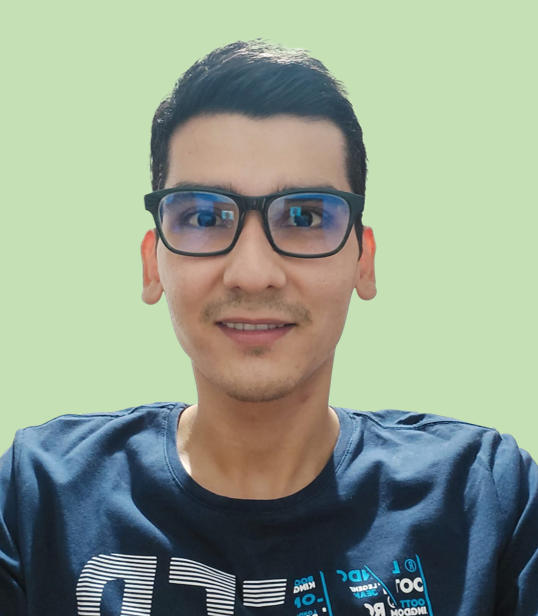
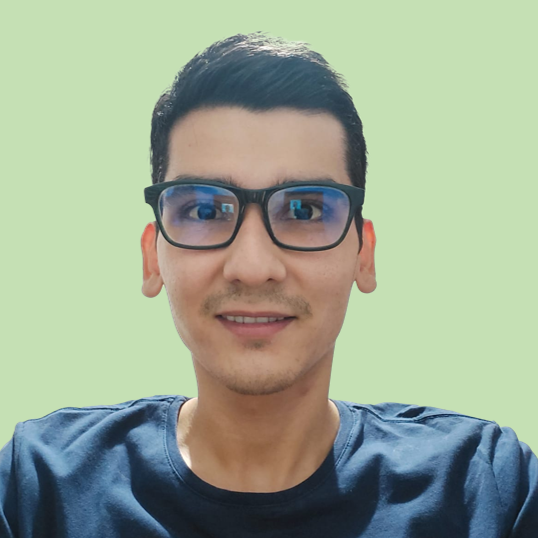
Ajustes sección equipo

diff --git a/index.html b/index.html
@@ -182,53 +182,53 @@
                 <div class="row justify-content-center">
                     <!-- Portfolio Item 1-->
                     <div class="col-md-6 col-lg-2 mb-5">
-                        <div class="portfolio-item mx-auto" data-bs-toggle="modal" data-bs-target="#portfolioModal1">
-                            <div class="portfolio-item-caption d-flex align-items-center justify-content-center h-100 w-100">
+                        <div class="portfolio-item mx-auto portfolio-sha" data-bs-toggle="modal" data-bs-target="#portfolioModal1">
+                            <div class="portfolio-item-caption d-flex align-items-center rounded-circle justify-content-center h-100 w-100">
                                 <div class="portfolio-item-caption-content text-center text-white"><i class="fas fa-plus fa-3x"></i></div>
                             </div>
-                            <img class="img-fluid" src="assets/img/equipo/albert.png" alt="..." />
+                            <img class="img-fluid rounded-circle" src="assets/img/equipo/albert.png" alt="Albert Plaza Sanchez" />
                         </div>
                         <h6 class="text-center text-uppercase text-secondary my-2">Albert Plaza Sanchéz</h6>
                     </div>
                     <!-- Portfolio Item 2-->
                     <div class="col-md-6 col-lg-2 mb-5">
-                        <div class="portfolio-item mx-auto" data-bs-toggle="modal" data-bs-target="#portfolioModal2">
-                            <div class="portfolio-item-caption d-flex align-items-center justify-content-center h-100 w-100">
+                        <div class="portfolio-item mx-auto portfolio-sha" data-bs-toggle="modal" data-bs-target="#portfolioModal2">
+                            <div class="portfolio-item-caption d-flex align-items-center rounded-circle justify-content-center h-100 w-100">
                                 <div class="portfolio-item-caption-content text-center text-white"><i class="fas fa-plus fa-3x"></i></div>
                             </div>
-                            <img class="img-fluid" src="assets/img/equipo/heidy.jpg" alt="..." />
+                            <img class="img-fluid rounded-circle" src="assets/img/equipo/heidy.jpg" alt="Heidy Tatiana Rincón" />
                         </div>
                         <h6 class="text-center text-uppercase text-secondary my-2">Heidy Tatiana Rincón Hernandez</h6>
                     </div>
                     <!-- Portfolio Item 3-->
                     <div class="col-md-6 col-lg-2 mb-5">
-                        <div class="portfolio-item mx-auto" data-bs-toggle="modal" data-bs-target="#portfolioModal3">
-                            <div class="portfolio-item-caption d-flex align-items-center justify-content-center h-100 w-100">
+                        <div class="portfolio-item mx-auto portfolio-sha" data-bs-toggle="modal" data-bs-target="#portfolioModal3">
+                            <div class="portfolio-item-caption d-flex align-items-center rounded-circle justify-content-center h-100 w-100">
                                 <div class="portfolio-item-caption-content text-center text-white"><i class="fas fa-plus fa-3x"></i></div>
                             </div>
-                            <img class="img-fluid" src="assets/img/equipo/sebastian.jpg" alt="..." />
+                            <img class="img-fluid rounded-circle" src="assets/img/equipo/sebastian.jpg" alt="Juan Sebastián Pastrana" />
                         </div>
                         <h6 class="text-center text-uppercase text-secondary my-2">Juan Sebastián Pastrana Ardila</h6>
                     </div>
                     <!-- Portfolio Item 4-->
                     <div class="col-md-6 col-lg-2 mb-5 mb-lg-0">
-                        <div class="portfolio-item mx-auto" data-bs-toggle="modal" data-bs-target="#portfolioModal4">
-                            <div class="portfolio-item-caption d-flex align-items-center justify-content-center h-100 w-100">
+                        <div class="portfolio-item mx-auto portfolio-sha" data-bs-toggle="modal" data-bs-target="#portfolioModal4">
+                            <div class="portfolio-item-caption d-flex align-items-center rounded-circle justify-content-center h-100 w-100">
                                 <div class="portfolio-item-caption-content text-center text-white"><i class="fas fa-plus fa-3x"></i></div>
                             </div>
-                            <img class="img-fluid" src="assets/img/equipo/game.png" alt="..." />
+                            <img class="img-fluid rounded-circle" src="assets/img/equipo/nathalie.jpg" alt="Nathalie Cabrera Chavarro" />
                         </div>
                         <h6 class="text-center text-uppercase text-secondary my-2">Nathalie Cabrera Chavarro</h6>
                     </div>
                     <!-- Portfolio Item 5-->
                     <div class="col-md-6 col-lg-2 mb-5 mb-md-0">
-                        <div class="portfolio-item mx-auto" data-bs-toggle="modal" data-bs-target="#portfolioModal5">
-                            <div class="portfolio-item-caption d-flex align-items-center justify-content-center h-100 w-100">
+                        <div class="portfolio-item mx-auto portfolio-sha" data-bs-toggle="modal" data-bs-target="#portfolioModal5">
+                            <div class="portfolio-item-caption d-flex align-items-center rounded-circle justify-content-center h-100 w-100">
                                 <div class="portfolio-item-caption-content text-center text-white"><i class="fas fa-plus fa-3x"></i></div>
                             </div>
-                            <img class="img-fluid" src="assets/img/equipo/samuel.png" alt="..." />
-                            <h6 class="text-center text-uppercase text-secondary my-2">Samuel Mauricio Brand Alarcón</h6>
+                            <img class="img-fluid rounded-circle" src="assets/img/equipo/samuel.png" alt="Samuel Mauricio Brand" />
                         </div>
+                        <h6 class="text-center text-uppercase text-secondary my-2">Samuel Mauricio Brand Alarcón</h6>
                     </div>
                 </div>
             </div>
@@ -293,7 +293,7 @@
                                         <div class="divider-custom-line"></div>
                                     </div>
                                     <!-- Portfolio Modal - Image-->
-                                    <img class="img-fluid rounded mb-5" src="assets/img/equipo/albert.png" alt="..." />
+                                    <img class="img-fluid rounded-circle mb-5 portfolio-sha" src="assets/img/equipo/albert.png" alt="Albert Plaza Sanchez" />
                                     <!-- Portfolio Modal - Text-->
                                     <p class="mb-4">Lorem ipsum dolor sit amet, consectetur adipisicing elit. Mollitia neque assumenda ipsam nihil, molestias magnam, recusandae quos quis inventore quisquam velit asperiores, vitae? Reprehenderit soluta, eos quod consequuntur itaque. Nam.</p>
                                     
@@ -323,7 +323,7 @@
                                         <div class="divider-custom-line"></div>
                                     </div>
                                     <!-- Portfolio Modal - Image-->
-                                    <img class="img-fluid rounded mb-5" src="assets/img/equipo/heidy.jpg" alt="..." />
+                                    <img class="img-fluid rounded-circle mb-5 portfolio-sha" src="assets/img/equipo/heidy.jpg" alt="Heidy Tatiana Rincón" />
                                     <!-- Portfolio Modal - Text-->
                                     <p class="mb-4">Hola, soy ___, pequeña y breve descripción</p>
                                     
@@ -353,7 +353,7 @@
                                         <div class="divider-custom-line"></div>
                                     </div>
                                     <!-- Portfolio Modal - Image-->
-                                    <img class="img-fluid rounded mb-5" src="assets/img/equipo/sebastian.jpg" alt="..." />
+                                    <img class="img-fluid rounded-circle mb-5 portfolio-sha" src="assets/img/equipo/sebastian.jpg" alt="Juan Sebastián Pastrana" />
                                     <!-- Portfolio Modal - Text-->
                                     <p class="mb-4">Lorem ipsum dolor sit amet, consectetur adipisicing elit. Mollitia neque assumenda ipsam nihil, molestias magnam, recusandae quos quis inventore quisquam velit asperiores, vitae? Reprehenderit soluta, eos quod consequuntur itaque. Nam.</p>
                                     
@@ -382,7 +382,7 @@
                                         <div class="divider-custom-line"></div>
                                     </div>
                                     <!-- Portfolio Modal - Image-->
-                                    <img class="img-fluid rounded mb-5" src="assets/img/equipo/game.png" alt="..." />
+                                    <img class="img-fluid rounded-circle mb-5 portfolio-sha" src="assets/img/equipo/nathalie.jpg" alt="Nathalie Cabrera Chavarro" />
                                     <!-- Portfolio Modal - Text-->
                                     <p class="mb-4">Lorem ipsum dolor sit amet, consectetur adipisicing elit. Mollitia neque assumenda ipsam nihil, molestias magnam, recusandae quos quis inventore quisquam velit asperiores, vitae? Reprehenderit soluta, eos quod consequuntur itaque. Nam.</p>
                                     
@@ -412,7 +412,7 @@
                                         <div class="divider-custom-line"></div>
                                     </div>
                                     <!-- Portfolio Modal - Image-->
-                                    <img class="img-fluid rounded mb-5" src="assets/img/equipo/samuel.png" alt="..." />
+                                    <img class="img-fluid rounded-circle mb-5 portfolio-sha" src="assets/img/equipo/samuel.png" alt="Samuel Mauricio Brand" />
                                     <!-- Portfolio Modal - Text-->
                                     <p class="mb-4">Lorem ipsum dolor sit amet, consectetur adipisicing elit. Mollitia neque assumenda ipsam nihil, molestias magnam, recusandae quos quis inventore quisquam velit asperiores, vitae? Reprehenderit soluta, eos quod consequuntur itaque. Nam.</p>
                                 

diff --git a/css/styles.css b/css/styles.css
@@ -605,8 +605,10 @@ progress {
 
 .img-fluid-team {
   /*max-width: 100%;*/
-  max-width: 50%;
+  max-width: 100%;
   height: auto;
+  border-radius: 50%;
+  
 }
 
 .img-thumbnail {
@@ -11485,9 +11487,13 @@ html {
 }
 @media (min-width: 992px) {
   .portfolio-modal .portfolio-modal-title {
-    font-size: 1.5rem;
+    font-size: 1.3rem;
     line-height: 2rem;
   }
+}
+
+.portfolio-sha{
+  filter: drop-shadow(1px 1px 10px);
 }
 
 .footer {
